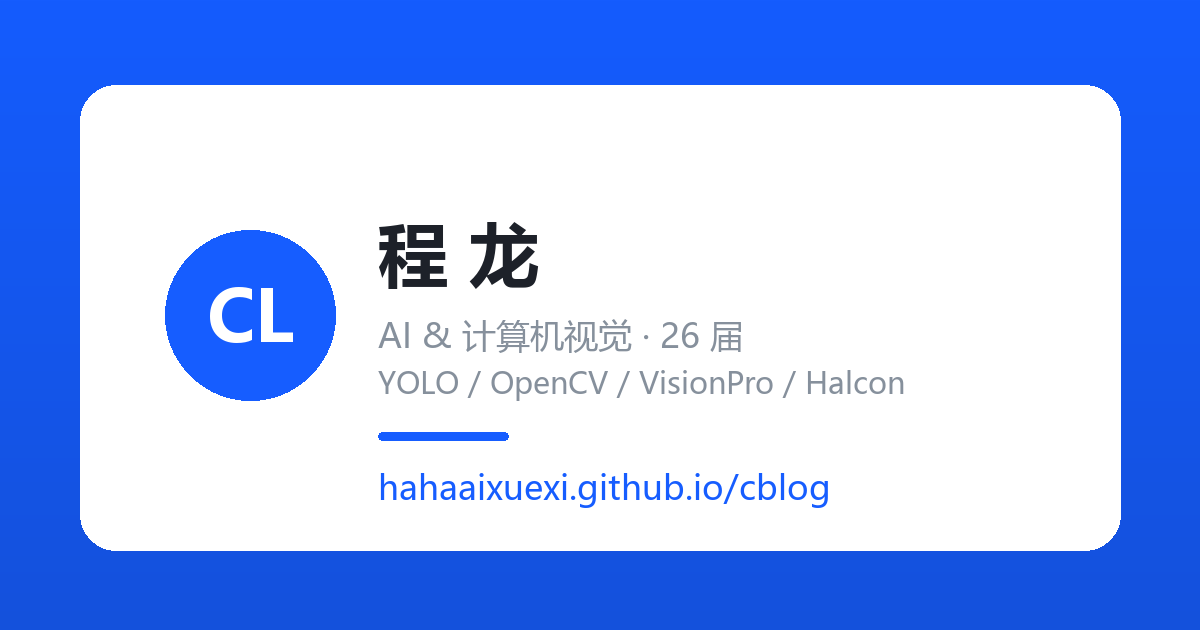
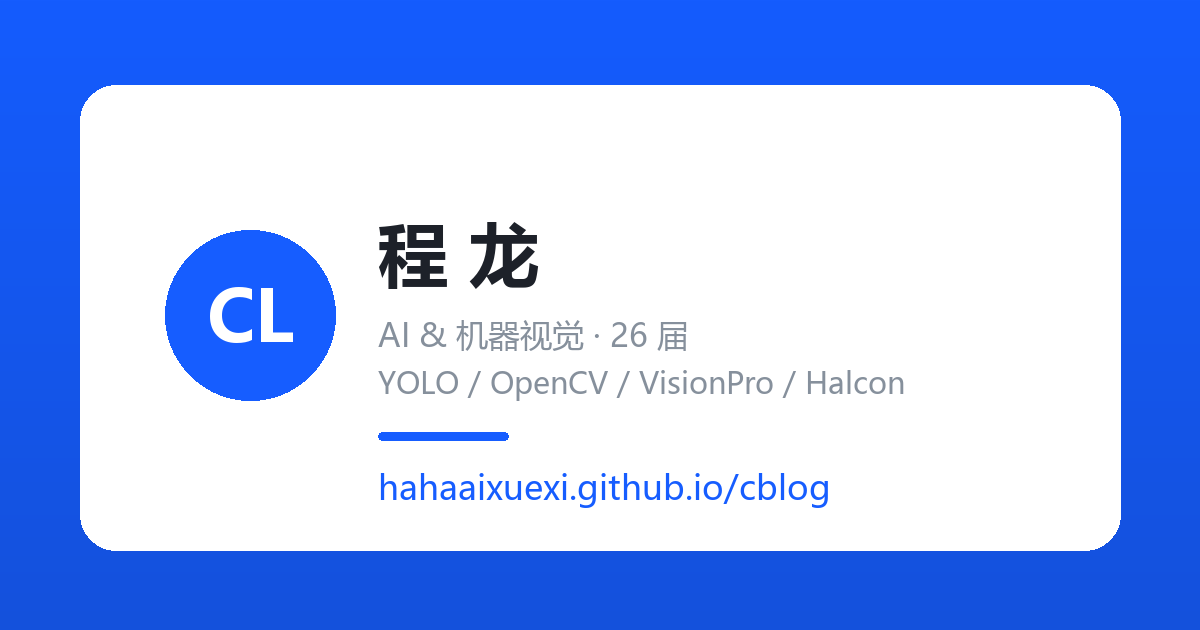
站点品牌语统一为机器视觉：标签页标题、分享卡标题与封面图

Changed region(s): [[0.3083, 0.5127, 0.6167, 0.573]]

diff --git a/index.html b/index.html
@@ -3,13 +3,13 @@
 <head>
 <meta charset="UTF-8">
 <meta name="viewport" content="width=device-width, initial-scale=1.0">
-<title>程龙 - 个人博客 | AI & 计算机视觉</title>
+<title>程龙 - 个人博客 | AI & 机器视觉</title>
 <meta name="description" content="程龙的个人技术博客，专注于计算机视觉、AI 应用与工业上位机开发。分享 VisionPro 二开、Halcon 算子、VisionMaster 方案、Modbus / 西门子 S7 / 欧姆龙 FINS 通讯、WinForm 与 WPF 界面、YOLO、OpenCV、Python、Linux 等技术实践与学习心得。">
 <meta name="keywords" content="程龙,AI,计算机视觉,YOLO,Python,OpenCV,VisionPro,Halcon,VisionMaster,C#,WPF,WinForm,Modbus,西门子S7,欧姆龙FINS,机器视觉,上位机开发,视觉软件二次开发,边缘计算,个人博客">
 <meta name="author" content="程龙">
 
 <!-- Open Graph -->
-<meta property="og:title" content="程龙 - 个人博客 | AI & 计算机视觉">
+<meta property="og:title" content="程龙 - 个人博客 | AI & 机器视觉">
 <meta property="og:description" content="专注于计算机视觉与 AI 应用，具备从模型训练到边缘部署、从视觉软件二开到 PLC 通讯与上位机界面交付的完整工程能力。">
 <meta property="og:type" content="website">
 <meta property="og:url" content="https://hahaaixuexi.github.io/cblog/">

diff --git a/README.md b/README.md
@@ -1,6 +1,6 @@
 # 程 龙 - 个人技术博客 🚀
 
-> AI & 计算机视觉方向 · 2026 届应届毕业生
+> AI & 机器视觉方向 · 2026 届应届毕业生
 
 [![GitHub](https://img.shields.io/badge/GitHub-hahaaixuexi%2Fcblog-black?logo=github)](https://github.com/hahaaixuexi/cblog) [![HTML5](https://img.shields.io/badge/-HTML5-E34F26?logo=html5&logoColor=white)]() [![CSS3](https://img.shields.io/badge/-CSS3-1572B6?logo=css3&logoColor=white)]() [![JavaScript](https://img.shields.io/badge/-JavaScript-F7DF1E?logo=javascript&logoColor=black)]()
 
